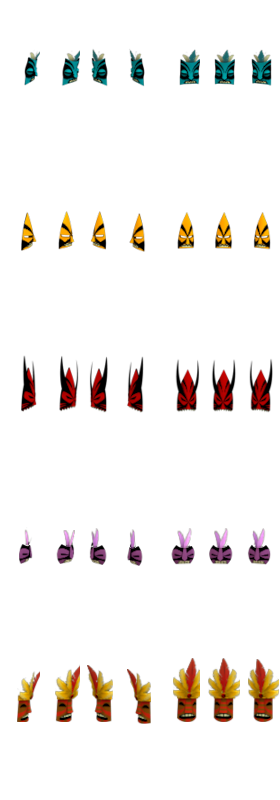
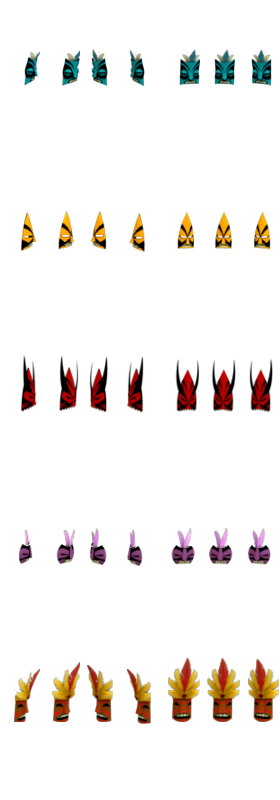
VV1 chief mask: render the whole mask, no cutoff (preview + village)
Owner: the chief mask was cut off in the picker and in-village. Two causes, both
from the prior bleed fix over-reaching on the chief (whose feathers are several
DISCONNECTED blobs):
- _keep_main_blob was dropping the chief's detached feather tips. Removed it from
  the chief cells and the preview (the chief keeps ALL its own pixels now; the
  cell-clip alone stops neighbour spill). Gridded cells still use it (their
  extra blobs really are bleed).
- Preview now crops the FULL isolated chief front-frame island (all feathers),
  not the 40px village cell.
- Chief frames are clamped fully inside their 40px cell so nothing is cut at the
  cell edge in-village (frames are <=33px, so this only nudges 1px overhangs in).

Every chief frame now keeps 100% of its source pixels. Sheets/atlas/mask.bmp
regenerated, DLL rebuilt, manifest re-pinned, geometry tests pass.

diff --git a/scripts/build_vv1_heathen_mask_sheets.py b/scripts/build_vv1_heathen_mask_sheets.py
@@ -324,17 +324,25 @@ def _sheet(colour: str) -> Image.Image:
             # CHIEF_DY lifts every packed chief frame uniformly (playtest: the
             # chief sat 25px too low in the multi-villager village view).
             y = chin - frame.height - CHIEF_DY
-            if y < 0 or y + frame.height > SHEET_CELL_H:
-                raise ValueError(f"{colour} facing {facing} does not fit the cell")
+            # Clamp the frame fully inside its own 40px cell so NOTHING is cut
+            # off at the cell edge in the village blit (the frames are <=33px
+            # wide, so this only nudges a 1px overhang inward -- no real move).
+            cell_lo = CELL_W * facing
+            x = max(cell_lo, min(x, cell_lo + CELL_W - frame.width))
+            y = max(0, min(y, SHEET_CELL_H - frame.height))
             # Clip each packed frame to its OWN 40px cell. Chief frames are
             # wider than the cell and centred, so without this they spill into
             # the neighbouring cells -- which is the in-village "horizontal
             # bleed" and the preview's intruding art (a neighbour frame's edge
             # showing up in this cell). The village blits exactly one 40px cell,
             # so clipping here loses nothing that was ever visible.
+            # Clip to the cell (removes any spill into neighbours) but keep ALL
+            # of THIS frame's own pixels -- the chief's feathers are several
+            # disconnected blobs, so we must NOT run _keep_main_blob here or the
+            # detached feather tips get dropped and the mask looks cut off.
             clipped = Image.new("RGBA", (CELL_W, SHEET_CELL_H), (0, 0, 0, 0))
             clipped.alpha_composite(frame, (x - CELL_W * facing, y))
-            sheet.alpha_composite(_keep_main_blob(clipped), (CELL_W * facing, 0))
+            sheet.alpha_composite(clipped, (CELL_W * facing, 0))
         return sheet
     for facing, (ox, oy) in enumerate(_frame_offsets(colour)):
         top = oy - CELL_TOP
@@ -365,15 +373,21 @@ def build_preview_strip(sheets: dict[str, Image.Image]) -> bytes:
     rows = 1 + len(COLOURS)
     strip = Image.new("RGB", (CELL_W, PREVIEW_CELL_H * rows), PREVIEW_BG)
     for index, colour in enumerate(COLOURS, start=1):
-        cell = sheets[colour].crop(
-            (
-                PREVIEW_FRAME * CELL_W,
-                0,
-                (PREVIEW_FRAME + 1) * CELL_W,
-                SHEET_CELL_H,
+        if MASK_OFFSETS[colour] is PACKED:
+            # Chief: use the FULL isolated front frame (all feathers, no cell
+            # clip and no blob-culling) so the ENTIRE mask renders in the picker.
+            src = Image.open(ART_DIR / f"{colour}.png").convert("RGBA")
+            cell = src.crop(_islands(src)[PREVIEW_FRAME])
+        else:
+            # Gridded: the sheet cell is already bleed-cleaned in _sheet().
+            cell = sheets[colour].crop(
+                (
+                    PREVIEW_FRAME * CELL_W,
+                    0,
+                    (PREVIEW_FRAME + 1) * CELL_W,
+                    SHEET_CELL_H,
+                )
             )
-        )
-        cell = _keep_main_blob(cell)  # drop neighbour-frame bleed before fitting
         bbox = cell.getbbox()
         art = cell.crop(bbox) if bbox else cell
         # Normalize to ~90% fill of the 40x65 cell (PAD inset on every side),
